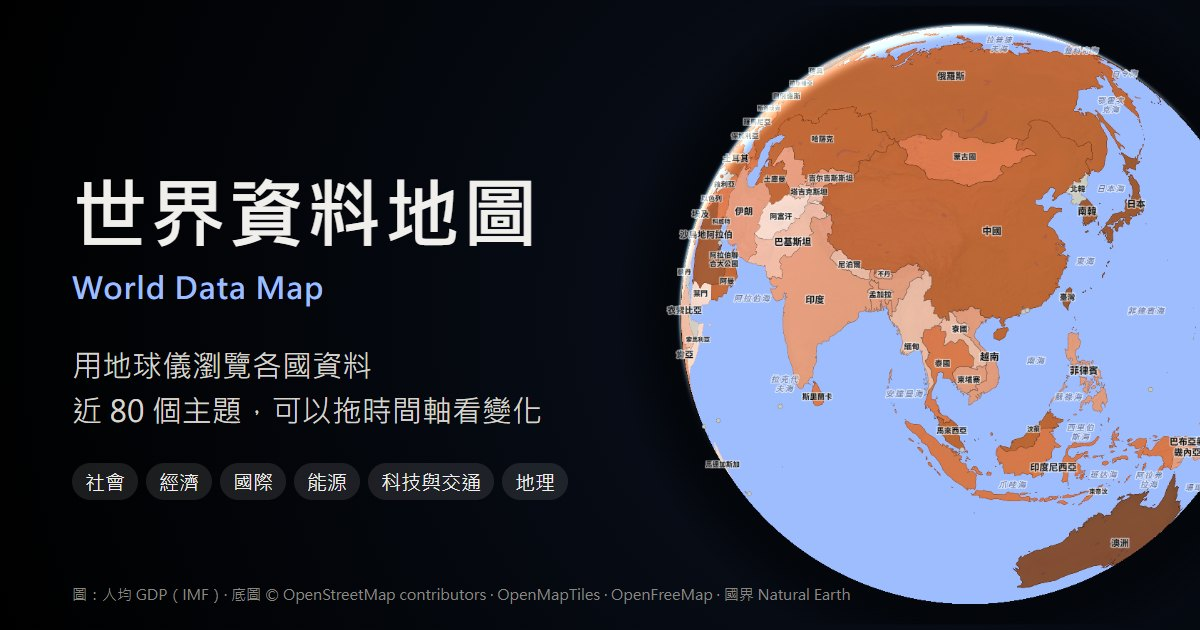
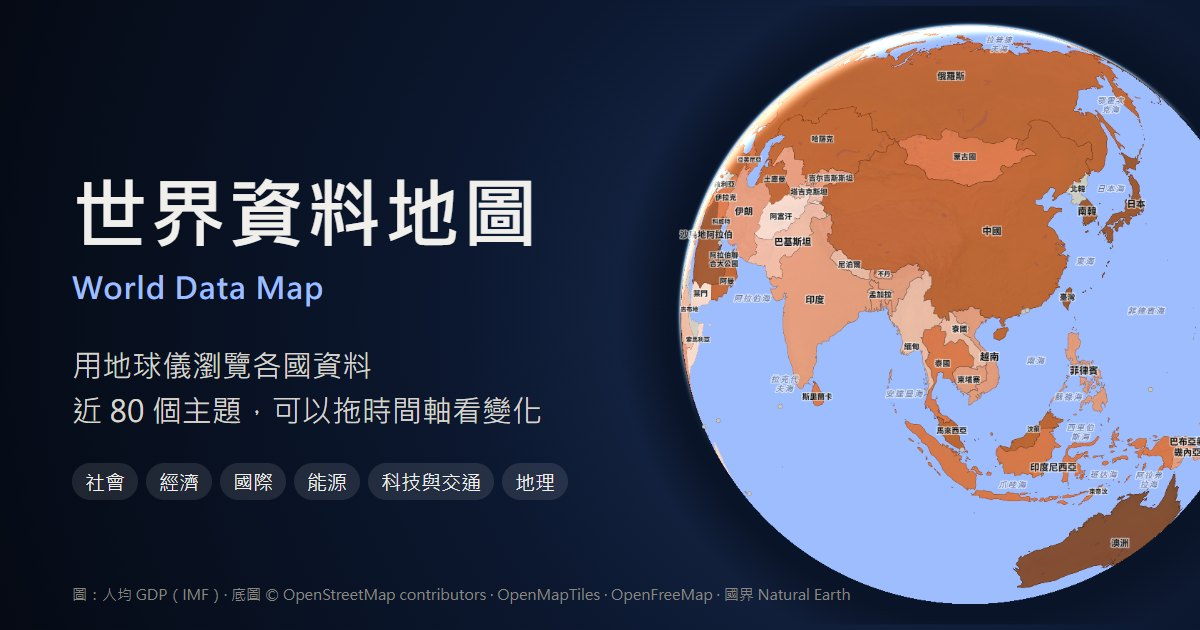
介面改善第三輪第 11 項：地球外面的背景從黑色太空改成深藍夜空（使用者從黑色、深藍、淺色三個版本選的；SPACE_GRADIENT #1d3157 → #0c1830 → #050a14，大氣層亮一點），畫面、匯出圖片、分享預覽圖一起換（og-image.jpg 重新產生）；check:en 全部通過；DESIGN.md 第 5 節更新

diff --git a/src/map/style.ts b/src/map/style.ts
@@ -34,7 +34,7 @@ export type Projection = 'globe' | 'mercator';
 const cache = new Map<string, Promise<StyleSpecification>>();
 
 /**
- * 下載底圖樣式，改成目前語言的地名、指定的投影、黑色太空背景。
+ * 下載底圖樣式，改成目前語言的地名、指定的投影、深藍夜空的大氣層。
  * 同一個網址只下載一次（App 啟動時先抓），每次呼叫都在複本上改寫（MapLibre 可能會改動樣式物件）。
  */
 export function loadBaseStyle(url: string, projection: Projection = 'globe', lang: Lang = 'zh'): Promise<StyleSpecification> {
@@ -53,12 +53,12 @@ export function loadBaseStyle(url: string, projection: Projection = 'globe', lan
       if (isNameLayer(layer) && layer.type === 'symbol') layer.layout = { ...layer.layout, 'text-field': LABELS[lang] };
     }
     style.projection = { type: projection };
-    // 黑色太空背景，地球邊緣一圈淡藍色大氣層
+    // 深藍夜空（背景本身是 CSS 的漸層，tokens.ts 的 SPACE_GRADIENT），地球邊緣一圈淡藍色大氣層
     style.sky = {
-      'sky-color': '#000000',
-      'horizon-color': '#3a6ea5',
-      'fog-color': '#3a6ea5',
-      'atmosphere-blend': ['interpolate', ['linear'], ['zoom'], 0, 0.8, 5, 0.8, 7, 0],
+      'sky-color': '#0c1830',
+      'horizon-color': '#6fa3e0',
+      'fog-color': '#6fa3e0',
+      'atmosphere-blend': ['interpolate', ['linear'], ['zoom'], 0, 1, 5, 1, 7, 0],
     };
     return style;
   });

diff --git a/src/theme/tokens.ts b/src/theme/tokens.ts
@@ -135,13 +135,14 @@ export function applyTokens(tokens: Tokens): void {
 }
 
 /**
- * 地球儀外面的黑色太空：由畫面中心往外的放射漸層 [位置 0–1, 顏色]。
- * WebGL 畫布在太空的部分是透明的，畫面上由 CSS 背景顯示，匯出圖片時在 canvas 上畫同一組顏色。
+ * 地球儀外面的深藍夜空：由畫面中心往外的放射漸層 [位置 0–1, 顏色]（2026-10-28 從黑色改成深藍，使用者從三個版本選的）。
+ * WebGL 畫布在太空的部分是透明的，畫面上由 CSS 背景顯示，匯出圖片時在 canvas 上畫同一組顏色；
+ * 地球邊緣的大氣層顏色在 style.ts 的 sky，分享預覽圖（scripts/og-image.mjs）也用同一組。
  */
 export const SPACE_GRADIENT: [number, string][] = [
-  [0, '#0b1220'],
-  [0.55, '#04070d'],
-  [1, '#000000'],
+  [0, '#1d3157'],
+  [0.45, '#0c1830'],
+  [1, '#050a14'],
 ];
 
 export interface MapTokens extends Tokens {

diff --git a/src/map/basemaps.ts b/src/map/basemaps.ts
@@ -20,7 +20,7 @@ export const BASEMAPS: Basemap[] = [
 export const DEFAULT_BASEMAP = 'terrain';
 /**
  * 深色介面、使用者沒自己選過底圖時用深藍：亮藍的彩色地形在深色頁面上是最刺眼的一塊。
- * 不用純黑的「深色」：海跟地球外面的黑色太空分不開，地名的灰字在橘色上也讀不到（2026-10-28 截圖比較）
+ * 不用純黑的「深色」：海跟地球外面的太空分不開，地名的灰字在橘色上也讀不到（2026-10-28 截圖比較）
  */
 export const DEFAULT_DARK_BASEMAP = 'fiord';
 

diff --git a/src/styles.css b/src/styles.css
@@ -955,7 +955,7 @@ kbd {
   opacity: 0.6;
 }
 
-/* MapLibre 的畫布；地球儀外面的黑色太空由 WorldMap 用 tokens.ts 的 SPACE_GRADIENT 設定 */
+/* MapLibre 的畫布；地球儀外面的深藍夜空由 WorldMap 用 tokens.ts 的 SPACE_GRADIENT 設定 */
 .map-canvas {
   position: absolute;
   inset: 0;

diff --git a/DESIGN.md b/DESIGN.md
@@ -347,7 +347,7 @@ pipeline/
   - 沒有照底圖的國名分級（`rank`）藏：台灣是第 2 級，跟蒙古、哈薩克、瑞典同一級，照分級藏會連台灣一起藏起來。
   - 無頭 Chrome（swiftshader）在換中心後偶爾截到只畫了左上角四分之一的畫面，沒有篩選時也一樣，再截一次就正常，不是篩選造成的。
 - **播放時的大年份**（`App.tsx` 的 `.map-year`，2026-10-28 加）：按下播放後地圖左上角疊大大的年份（桌機 44px、手機 30px，推估的年份旁寫「推估值」），停下後約 1 秒淡出（減少動態效果時直接消失）。有框選結果時它在左上角，年份改放中間。時間軸右邊本來就有年份，但播放時眼睛在地圖上。
-- **地圖背景**：地球儀外面是黑色太空（`tokens.ts` 的 `SPACE_GRADIENT`，畫面與匯出圖片共用），邊緣有一圈淡藍色大氣層。
+- **地圖背景**：地球儀外面是深藍夜空（`tokens.ts` 的 `SPACE_GRADIENT`，畫面、匯出圖片、分享預覽圖共用），邊緣有一圈淡藍色大氣層（`style.ts` 的 `sky`）。2026-10-28 從黑色改成深藍：截了三個版本（黑色、深藍、淺色介面用跟頁面同色調的淺灰藍）給使用者選，淺色頁面中間一大塊黑色是整頁最重的東西，深藍輕一點，又保留地球在太空裡的感覺。
 - **底圖切換**（`src/map/basemaps.ts`）：
   - 可選彩色地形、亮色街道、淺灰、深色、深藍五種，選擇記在瀏覽器的 localStorage。
   - **沒選過時跟著介面深淺色**（2026-10-28 改）：淺色用彩色地形，深色用深藍（`DEFAULT_DARK_BASEMAP`）。原本深色介面也是亮藍的彩色地形，是整頁最刺眼的一塊。截圖比過純黑的「深色」底圖：海跟地球外面的黑色太空分不開，地名的灰字在橘色上讀不到；深藍的海是藍灰色，地名是淺色。選過底圖的照舊，切換深淺色也不變。分享預覽圖（`og-image.mjs`）固定用彩色地形。
